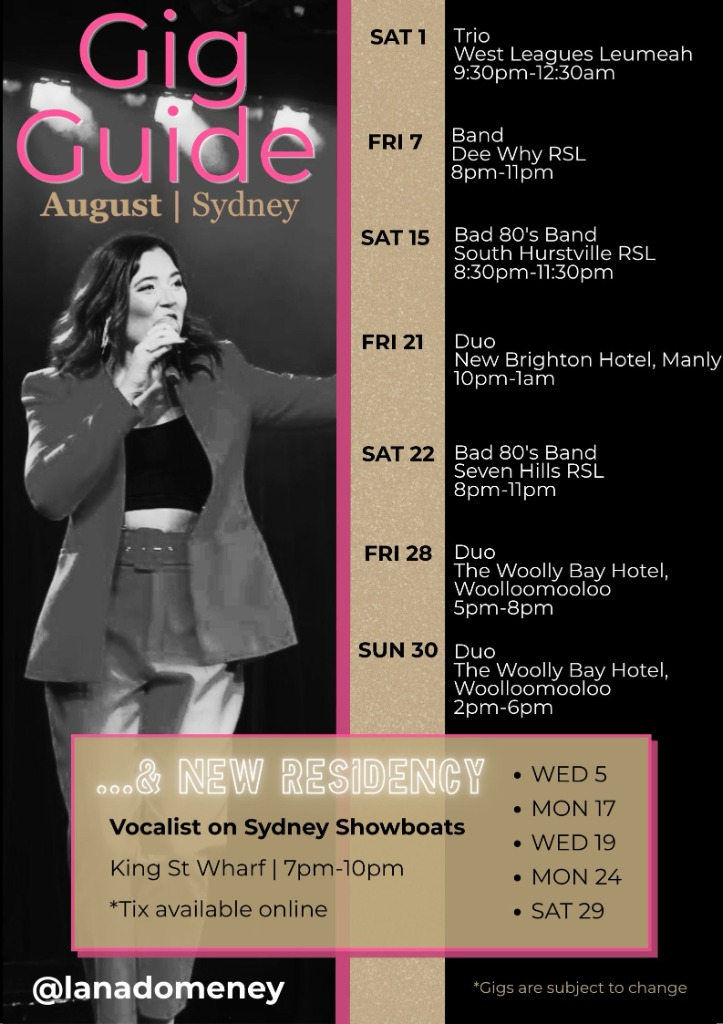
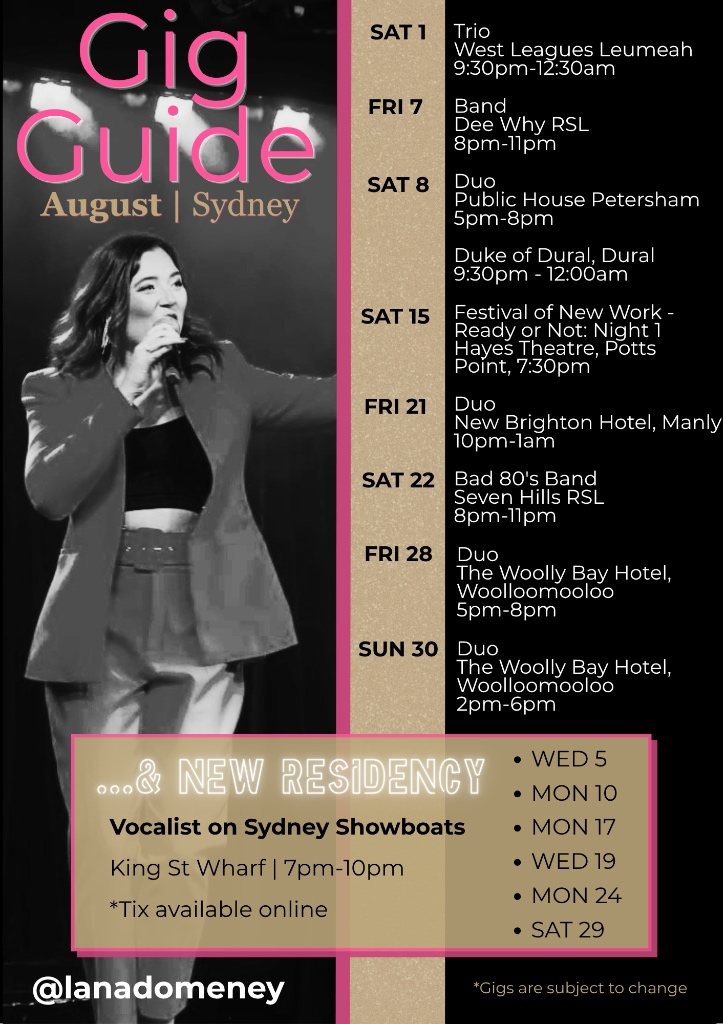
update to guide gig plus seo
update to guide gig plus seo

diff --git a/index.html b/index.html
@@ -3,15 +3,48 @@
 <head>
   <meta charset="UTF-8" />
   <meta name="viewport" content="width=device-width, initial-scale=1.0" />
-  <title>Lana Domeney | International Vocalist &amp; Entertainer</title>
-  <meta name="description" content="Lana Domeney is a Sydney-based international vocalist and entertainer performing Pop, Jazz and Vintage Pop for shows, cruises, corporate and private events." />
+  <title>Lana Domeney | Premier Sydney Singer, Vocalist &amp; Live Party Bands</title>
+  <meta name="description" content="Lana Domeney is one of the premier singers in Sydney and a versatile Sydney vocalist available for wedding bands, party bands, corporate events, and cruise residencies." />
+  <meta name="keywords" content="Lana Domeney, Sydney singers, singers in Sydney, Sydney vocalist, best vocalists in Sydney, wedding bands Sydney, party bands Sydney, live music Sydney, corporate entertainment Sydney" />
   <meta name="author" content="Lana Domeney" />
 
+  <!-- ===== OPEN GRAPH & SOCIAL METADATA ===== -->
   <meta property="og:type" content="website" />
-  <meta property="og:title" content="Lana Domeney | International Vocalist &amp; Entertainer" />
-  <meta property="og:description" content="Pop, Jazz &amp; Vintage Pop. Available for shows, cruises, corporate and private events." />
+  <meta property="og:title" content="Lana Domeney | Premier Sydney Singer, Vocalist &amp; Live Party Bands" />
+  <meta property="og:description" content="Looking for top singers in Sydney? Lana Domeney delivers captivating Pop, Jazz &amp; Vintage Live Entertainment for wedding bands, party bands, corporate galas, and cruise residencies." />
   <meta property="og:image" content="assets/img/promo-4.jpg" />
+  <meta property="og:url" content="https://lanadomeney.com/" />
+  <meta name="twitter:card" content="summary_large_image" />
+  <meta name="twitter:title" content="Lana Domeney | Sydney Singers, Vocalist &amp; Party Bands" />
+  <meta name="twitter:description" content="Premier Sydney vocalist &amp; entertainer available for shows, wedding bands, party bands, and corporate events." />
   <meta name="theme-color" content="#000000" />
+
+  <!-- ===== STRUCTURED DATA (JSON-LD SCHEMA) ===== -->
+  <script type="application/ld+json">
+  {
+    "@context": "https://schema.org",
+    "@type": "Person",
+    "name": "Lana Domeney",
+    "url": "https://lanadomeney.com/",
+    "image": "https://lanadomeney.com/assets/img/promo-4.jpg",
+    "jobTitle": "Vocalist, Singer & Live Entertainer",
+    "description": "Sydney-based international vocalist performing Pop, Jazz, Vintage classics, and headline live shows for corporate events, wedding bands, party bands, and cruises.",
+    "address": {
+      "@type": "PostalAddress",
+      "addressLocality": "Sydney",
+      "addressRegion": "NSW",
+      "addressCountry": "Australia"
+    },
+    "sameAs": [
+      "https://www.instagram.com/lanadomeney/",
+      "https://www.tiktok.com/@lanadomeney",
+      "https://www.youtube.com/@lanadomeney",
+      "https://www.facebook.com/lanadomeney/",
+      "https://linktr.ee/lanadomeney"
+    ],
+    "knowsAbout": ["Live Singing", "Pop & Jazz Vocalist", "Sydney Singers", "Wedding Bands Sydney", "Party Bands Sydney", "Corporate Live Entertainment"]
+  }
+  </script>
 
   <link rel="icon" type="image/png" href="assets/favicon.png" />
 
@@ -26,11 +59,11 @@
   <!-- ===== NAV ===== -->
   <header class="nav" id="nav">
     <a href="#home" class="nav__brand" aria-label="Lana Domeney, home">
-      <img src="assets/logo/lana-white.png" alt="Lana Domeney" />
+      <img src="assets/logo/lana-white.png" alt="Lana Domeney - International Vocalist" />
     </a>
     <nav class="nav__links" aria-label="Primary">
       <a href="#about">About</a>
-      <a href="#shows">Shows</a>
+      <a href="#shows">Shows &amp; Bands</a>
       <a href="#showreel">Showreel</a>
       <a href="gallery.html">Gallery</a>
       <a href="headshots.html">Headshots &amp; CV</a>
@@ -44,13 +77,13 @@
 
   <!-- ===== HERO ===== -->
   <section class="hero" id="home">
-    <div class="hero__media" role="img" aria-label="Lana Domeney performing"></div>
+    <div class="hero__media" role="img" aria-label="Lana Domeney performing live"></div>
     <div class="hero__scrim"></div>
     <div class="hero__inner">
       <p class="eyebrow eyebrow--light hero__eyebrow">Sydney, Australia</p>
-      <img class="hero__logo logo-tilt" src="assets/logo/lana-white.png" alt="Lana Domeney" />
-      <h1 class="hero__tag">International Vocalist &amp; Entertainer</h1>
-      <p class="hero__sub">The sounds of Pop, Jazz &amp; Vintage Glamour</p>
+      <img class="hero__logo logo-tilt" src="assets/logo/lana-white.png" alt="Lana Domeney - Vocalist &amp; Entertainer" />
+      <h1 class="hero__tag">International Vocalist &amp; Live Entertainer</h1>
+      <p class="hero__sub">Pop, Jazz, Vintage Glamour &amp; Premier Party Bands in Sydney</p>
       <a href="#contact" class="btn btn--pink">Enquire for Bookings</a>
     </div>
     <a href="#about" class="hero__scroll" aria-label="Scroll to about">&#8595;</a>
@@ -60,18 +93,18 @@
   <section class="about section" id="about">
     <div class="about__grid">
       <div class="about__photo">
-        <img src="assets/img/promo-3.jpg" alt="Lana Domeney portrait" loading="lazy" />
+        <img src="assets/img/promo-3.jpg" alt="Lana Domeney - Premier singer in Sydney" loading="lazy" />
       </div>
       <div class="about__text">
         <p class="eyebrow">About</p>
         <h2 class="section__title">A voice for the <em>moment</em></h2>
         <blockquote class="pullquote">&ldquo;Brilliant singer and performer.&rdquo;<cite>M.C.</cite></blockquote>
-        <p>Lana Domeney is an international vocalist and entertainer, born in Essex, UK and raised in Sydney, Australia, who discovered her passion for singing at the age of eleven.</p>
-        <p>Trained in musical theatre at the McDonald College of Performing Arts and ED5International, Lana has honed her craft on both land and sea, headlining in Greece and performing across Carnival UK &amp; US cruise ships.</p>
-        <p>A versatile vocalist, Lana blends Pop, Jazz and timeless classics into a captivating live show. With natural charisma and magnetic stage presence, she continues to delight audiences around the world.</p>
+        <p>Lana Domeney is an international vocalist and entertainer, born in Essex, UK and raised in Sydney, Australia, who discovered her passion for singing at the age of eleven. Today, she is recognized among the premier singers in Sydney for corporate galas, wedding bands, and headline stage shows.</p>
+        <p>Trained in musical theatre at the McDonald College of Performing Arts and ED5International, Lana has honed her craft on both land and sea, headlining in Greece, starring as a resident vocalist on Sydney Showboats, and performing across Carnival UK &amp; US cruise fleets.</p>
+        <p>A versatile vocalist, Lana blends Pop, Jazz, and timeless classics into a captivating live experience. Whether performing an intimate solo set or fronting full party bands in Sydney, her natural charisma and magnetic stage presence delight audiences worldwide.</p>
         <div class="about__facts">
           <div><span>5+ Years</span>performing professionally</div>
-          <div><span>Land &amp; Sea</span>Stage &amp; cruise</div>
+          <div><span>Land &amp; Sea</span>Stage, cruise &amp; party bands</div>
           <div><span>Soprano</span>G3&ndash;C6, belt to F5</div>
         </div>
       </div>
@@ -82,25 +115,25 @@
   <section class="shows section" id="shows">
     <div class="section__head center">
       <p class="eyebrow">Bookings</p>
-      <h2 class="section__title">Shows &amp; Packages</h2>
-      <p class="section__lead">Every performance is tailored to your venue and audience, available as a solo show with backing tracks, or performed live with your band or orchestra.</p>
+      <h2 class="section__title">Shows, Wedding &amp; Party Bands in Sydney</h2>
+      <p class="section__lead">Every performance is tailored to your venue and event, available as a solo vocalist with backing tracks, or fronting premier wedding bands, party bands, and full orchestras.</p>
     </div>
     <div class="cards">
       <article class="card">
-        <h3>Solo Shows</h3>
-        <p>A one-woman journey through Pop, Jazz and Vintage classics. Intimate, polished and endlessly re-programmable for your room.</p>
+        <h3>Solo Vocalist</h3>
+        <p>A one-woman journey through Pop, Jazz, and Vintage classics. Intimate, polished, and endlessly re-programmable for any venue or private gathering.</p>
       </article>
       <article class="card">
-        <h3>Corporate &amp; Private Events</h3>
-        <p>Galas, weddings, launches and celebrations. Sophisticated live entertainment that sets the tone for the evening.</p>
+        <h3>Wedding &amp; Party Bands Sydney</h3>
+        <p>Galas, weddings, product launches, and private celebrations. High-energy live party bands that bring sophisticated, show-stopping entertainment to your dance floor.</p>
       </article>
       <article class="card">
         <h3>Cruise &amp; Residencies</h3>
-        <p>Headline sets and extended residencies for cruise lines and venues, refined across Carnival UK &amp; US fleets.</p>
+        <p>Headline sets and extended residencies for cruise lines and prestige venues, refined across Carnival UK &amp; US fleets and Sydney Showboats.</p>
       </article>
       <article class="card">
         <h3>Live with Band or Orchestra</h3>
-        <p>Bring the full sound. Lana performs seamlessly with your house band or orchestra for a truly show-stopping night.</p>
+        <p>Bring the full sound. Lana performs seamlessly fronting your house band, big band, or orchestra for an unforgettable live music event.</p>
       </article>
     </div>
     <div class="center">
@@ -112,13 +145,13 @@
   <section class="reel section" id="showreel">
     <div class="section__head center">
       <p class="eyebrow eyebrow--light">Watch</p>
-      <h2 class="section__title">Showreel</h2>
-      <p class="section__lead">End of Year Showreel 2025</p>
+      <h2 class="section__title">Live Performance Showreel</h2>
+      <p class="section__lead">End of Year Showreel 2025 &ndash; Lana Domeney</p>
     </div>
     <div class="reel__frame">
       <iframe
         src="https://www.youtube.com/embed/VcOsoinFNQ8?rel=0"
-        title="Lana Domeney, Showreel"
+        title="Lana Domeney - Live Performance Showreel"
         loading="lazy"
         referrerpolicy="strict-origin-when-cross-origin"
         allow="accelerometer; autoplay; clipboard-write; encrypted-media; gyroscope; picture-in-picture; web-share"

diff --git a/gallery.html b/gallery.html
@@ -3,8 +3,14 @@
 <head>
   <meta charset="UTF-8" />
   <meta name="viewport" content="width=device-width, initial-scale=1.0" />
-  <title>Gallery | Lana Domeney</title>
-  <meta name="description" content="Photo gallery of vocalist and entertainer Lana Domeney, on stage and in frame." />
+  <title>Photo Gallery | Lana Domeney - Sydney Vocalist &amp; Live Band Singer</title>
+  <meta name="description" content="Explore the photo gallery of Lana Domeney, one of the top singers in Sydney performing live with wedding bands, party bands, and stage shows." />
+  <meta name="keywords" content="Lana Domeney gallery, Sydney singers photos, Sydney vocalist pictures, wedding bands Sydney, party bands Sydney" />
+  <meta property="og:type" content="article" />
+  <meta property="og:title" content="Photo Gallery | Lana Domeney - Sydney Vocalist &amp; Live Band Singer" />
+  <meta property="og:description" content="On stage and in frame: photo gallery of premier Sydney vocalist Lana Domeney fronting party bands, wedding bands, and live stage shows." />
+  <meta property="og:image" content="assets/img/promo-4.jpg" />
+  <meta property="og:url" content="https://lanadomeney.com/gallery.html" />
   <link rel="icon" type="image/png" href="assets/favicon.png" />
   <link rel="preconnect" href="https://fonts.googleapis.com" />
   <link rel="preconnect" href="https://fonts.gstatic.com" crossorigin />
@@ -16,7 +22,7 @@
   <!-- ===== NAV ===== -->
   <header class="nav nav--solid" id="nav">
     <a href="index.html" class="nav__brand" aria-label="Lana Domeney, home">
-      <img src="assets/logo/lana-white.png" alt="Lana Domeney" />
+      <img src="assets/logo/lana-white.png" alt="Lana Domeney - Sydney Singer" />
     </a>
     <nav class="nav__links" aria-label="Primary">
       <a href="index.html#about">About</a>
@@ -41,28 +47,28 @@
   <section class="gallery section section--top0" id="gallery">
     <div class="grid8" id="masonry">
       <!-- Row 1 -->
-      <button class="masonry__item" data-full="assets/img/stage-3.png"><img src="assets/img/stage-3.png" alt="Lana Domeney performing live on stage with band" loading="lazy" /></button>
-      <button class="masonry__item" data-full="assets/img/outdoor-6.jpg"><img src="assets/img/outdoor-6.jpg" alt="Lana Domeney editorial portrait" loading="lazy" /></button>
-      <button class="masonry__item" data-full="assets/img/stage-1.jpg"><img src="assets/img/stage-1.jpg" alt="Lana Domeney performing live in silver sequin dress" loading="lazy" /></button>
-      <button class="masonry__item" data-full="assets/img/outdoor-1.jpg"><img src="assets/img/outdoor-1.jpg" alt="Lana Domeney in red gown, archway" loading="lazy" /></button>
+      <button class="masonry__item" data-full="assets/img/stage-3.png"><img src="assets/img/stage-3.png" alt="Lana Domeney - Sydney singer performing live on stage with party band" loading="lazy" /></button>
+      <button class="masonry__item" data-full="assets/img/outdoor-6.jpg"><img src="assets/img/outdoor-6.jpg" alt="Lana Domeney - Sydney vocalist editorial portrait" loading="lazy" /></button>
+      <button class="masonry__item" data-full="assets/img/stage-1.jpg"><img src="assets/img/stage-1.jpg" alt="Lana Domeney - Top singers in Sydney performing live in silver dress" loading="lazy" /></button>
+      <button class="masonry__item" data-full="assets/img/outdoor-1.jpg"><img src="assets/img/outdoor-1.jpg" alt="Lana Domeney - Sydney singer in red gown" loading="lazy" /></button>
 
       <!-- Row 2 -->
-      <button class="masonry__item" data-full="assets/img/stage-6.jpg"><img src="assets/img/stage-6.jpg" alt="Lana Domeney performing live stage back-bend" loading="lazy" /></button>
-      <button class="masonry__item" data-full="assets/img/outdoor-5.jpg"><img src="assets/img/outdoor-5.jpg" alt="Lana Domeney in black sequins" loading="lazy" /></button>
-      <button class="masonry__item" data-full="assets/img/stage-2.jpg"><img src="assets/img/stage-2.jpg" alt="Lana Domeney performing live in red suit" loading="lazy" /></button>
-      <button class="masonry__item" data-full="assets/img/headshot.jpg"><img src="assets/img/headshot.jpg" alt="Lana Domeney glamour portrait" loading="lazy" /></button>
+      <button class="masonry__item" data-full="assets/img/stage-6.jpg"><img src="assets/img/stage-6.jpg" alt="Lana Domeney - Sydney vocalist live stage back-bend performance" loading="lazy" /></button>
+      <button class="masonry__item" data-full="assets/img/outdoor-5.jpg"><img src="assets/img/outdoor-5.jpg" alt="Lana Domeney - Sydney event singer portrait" loading="lazy" /></button>
+      <button class="masonry__item" data-full="assets/img/stage-2.jpg"><img src="assets/img/stage-2.jpg" alt="Lana Domeney - Party bands Sydney live performance in red suit" loading="lazy" /></button>
+      <button class="masonry__item" data-full="assets/img/headshot.jpg"><img src="assets/img/headshot.jpg" alt="Lana Domeney - Best vocalists in Sydney glamour headshot" loading="lazy" /></button>
 
       <!-- Row 3 -->
-      <button class="masonry__item" data-full="assets/img/stage-8.jpg"><img src="assets/img/stage-8.jpg" alt="Lana Domeney in red sequin gown at the piano" loading="lazy" /></button>
-      <button class="masonry__item" data-full="assets/img/outdoor-3.jpg"><img src="assets/img/outdoor-3.jpg" alt="Lana Domeney on stone steps" loading="lazy" /></button>
-      <button class="masonry__item" data-full="assets/img/stage-5.jpg"><img src="assets/img/stage-5.jpg" alt="Lana Domeney performing live with band in leopard print" loading="lazy" /></button>
-      <button class="masonry__item" data-full="assets/img/promo-3.jpg"><img src="assets/img/promo-3.jpg" alt="Lana Domeney, black and white portrait" loading="lazy" /></button>
+      <button class="masonry__item" data-full="assets/img/stage-8.jpg"><img src="assets/img/stage-8.jpg" alt="Lana Domeney - Sydney wedding &amp; party band vocalist at the piano" loading="lazy" /></button>
+      <button class="masonry__item" data-full="assets/img/outdoor-3.jpg"><img src="assets/img/outdoor-3.jpg" alt="Lana Domeney - Sydney vocal entertainer outdoor portrait" loading="lazy" /></button>
+      <button class="masonry__item" data-full="assets/img/stage-5.jpg"><img src="assets/img/stage-5.jpg" alt="Lana Domeney - Sydney party band live performance in leopard print" loading="lazy" /></button>
+      <button class="masonry__item" data-full="assets/img/promo-3.jpg"><img src="assets/img/promo-3.jpg" alt="Lana Domeney - Sydney singer promo portrait" loading="lazy" /></button>
 
       <!-- Row 4 -->
-      <button class="masonry__item" data-full="assets/img/stage-7.jpg"><img src="assets/img/stage-7.jpg" alt="Lana Domeney singing under purple stage spotlights" loading="lazy" /></button>
-      <button class="masonry__item" data-full="assets/img/outdoor-4.jpg"><img src="assets/img/outdoor-4.jpg" alt="Lana Domeney on stairs" loading="lazy" /></button>
-      <button class="masonry__item" data-full="assets/img/stage-4.jpg"><img src="assets/img/stage-4.jpg" alt="Lana Domeney at the Stage Door" loading="lazy" /></button>
-      <button class="masonry__item" data-full="assets/img/promo-4.jpg"><img src="assets/img/promo-4.jpg" alt="Lana Domeney with microphone" loading="lazy" /></button>
+      <button class="masonry__item" data-full="assets/img/stage-7.jpg"><img src="assets/img/stage-7.jpg" alt="Lana Domeney - Sydney vocalist singing under purple spotlights" loading="lazy" /></button>
+      <button class="masonry__item" data-full="assets/img/outdoor-4.jpg"><img src="assets/img/outdoor-4.jpg" alt="Lana Domeney - Wedding bands Sydney vocalist portrait" loading="lazy" /></button>
+      <button class="masonry__item" data-full="assets/img/stage-4.jpg"><img src="assets/img/stage-4.jpg" alt="Lana Domeney - Sydney Showboats resident vocalist at Stage Door" loading="lazy" /></button>
+      <button class="masonry__item" data-full="assets/img/promo-4.jpg"><img src="assets/img/promo-4.jpg" alt="Lana Domeney - Premier singer in Sydney with microphone" loading="lazy" /></button>
     </div>
   </section>
 

diff --git a/headshots.html b/headshots.html
@@ -3,8 +3,14 @@
 <head>
   <meta charset="UTF-8" />
   <meta name="viewport" content="width=device-width, initial-scale=1.0" />
-  <title>Headshots &amp; CV | Lana Domeney</title>
-  <meta name="description" content="Professional headshots and performance CV for vocalist and actor Lana Domeney, represented by Jeep Management, Sydney." />
+  <title>Headshots &amp; CV | Lana Domeney - Sydney Vocalist &amp; Entertainer</title>
+  <meta name="description" content="Professional headshots and performance CV for Sydney singer and musical theatre vocalist Lana Domeney, represented by Jeep Management, Sydney." />
+  <meta name="keywords" content="Lana Domeney headshots, Lana Domeney CV, Sydney singers, Sydney vocalist, Jeep Management Sydney, Sydney theatre vocalist" />
+  <meta property="og:type" content="article" />
+  <meta property="og:title" content="Headshots &amp; CV | Lana Domeney - Sydney Vocalist &amp; Entertainer" />
+  <meta property="og:description" content="Professional headshots, performance credits, and CV for premier Sydney vocalist Lana Domeney, represented by Jeep Management, Sydney." />
+  <meta property="og:image" content="assets/headshots/hs-1.jpg" />
+  <meta property="og:url" content="https://lanadomeney.com/headshots.html" />
   <link rel="icon" type="image/png" href="assets/favicon.png" />
   <link rel="preconnect" href="https://fonts.googleapis.com" />
   <link rel="preconnect" href="https://fonts.gstatic.com" crossorigin />
@@ -16,7 +22,7 @@
   <!-- ===== NAV ===== -->
   <header class="nav nav--solid" id="nav">
     <a href="index.html" class="nav__brand" aria-label="Lana Domeney, home">
-      <img src="assets/logo/lana-white.png" alt="Lana Domeney" />
+      <img src="assets/logo/lana-white.png" alt="Lana Domeney - Sydney Vocalist" />
     </a>
     <nav class="nav__links" aria-label="Primary">
       <a href="index.html#about">About</a>
@@ -43,12 +49,12 @@
     <div class="carousel" id="carousel">
       <div class="carousel__viewport">
         <div class="carousel__track" id="carTrack">
-          <figure class="carousel__slide"><img src="assets/headshots/hs-1.jpg" alt="Lana Domeney headshot 1" /></figure>
-          <figure class="carousel__slide"><img src="assets/headshots/hs-2.jpg" alt="Lana Domeney headshot 2" /></figure>
-          <figure class="carousel__slide"><img src="assets/headshots/hs-3.jpg" alt="Lana Domeney headshot 3" /></figure>
-          <figure class="carousel__slide"><img src="assets/headshots/hs-4.jpg" alt="Lana Domeney headshot 4" /></figure>
-          <figure class="carousel__slide"><img src="assets/headshots/hs-5.jpg" alt="Lana Domeney headshot 5" /></figure>
-          <figure class="carousel__slide"><img src="assets/headshots/hs-6.jpg" alt="Lana Domeney headshot 6" /></figure>
+          <figure class="carousel__slide"><img src="assets/headshots/hs-1.jpg" alt="Lana Domeney - Sydney vocalist professional headshot 1" /></figure>
+          <figure class="carousel__slide"><img src="assets/headshots/hs-2.jpg" alt="Lana Domeney - Sydney singer performance headshot 2" /></figure>
+          <figure class="carousel__slide"><img src="assets/headshots/hs-3.jpg" alt="Lana Domeney - Top vocalists in Sydney headshot 3" /></figure>
+          <figure class="carousel__slide"><img src="assets/headshots/hs-4.jpg" alt="Lana Domeney - Sydney party band lead singer headshot 4" /></figure>
+          <figure class="carousel__slide"><img src="assets/headshots/hs-5.jpg" alt="Lana Domeney - Sydney wedding band vocalist headshot 5" /></figure>
+          <figure class="carousel__slide"><img src="assets/headshots/hs-6.jpg" alt="Lana Domeney - International Sydney vocalist headshot 6" /></figure>
         </div>
       </div>
       <button class="carousel__btn carousel__prev" id="carPrev" aria-label="Previous headshot">&#8249;</button>

diff --git a/gig-guide.html b/gig-guide.html
@@ -3,8 +3,14 @@
 <head>
   <meta charset="UTF-8" />
   <meta name="viewport" content="width=device-width, initial-scale=1.0" />
-  <title>Gig Guide | Lana Domeney</title>
-  <meta name="description" content="August Gig Guide, live performance dates, and Sydney Showboats residency for vocalist Lana Domeney." />
+  <title>August Dates &amp; Gig Guide | Lana Domeney - Live Sydney Singer &amp; Residencies</title>
+  <meta name="description" content="August Gig Guide and live performance dates for Sydney vocalist Lana Domeney. Catch live shows across Sydney venues, RSL clubs, and Sydney Showboats." />
+  <meta name="keywords" content="Lana Domeney gig guide, Sydney singers live dates, singers in Sydney live, wedding bands Sydney, party bands Sydney, Sydney Showboats vocalist" />
+  <meta property="og:type" content="article" />
+  <meta property="og:title" content="August Dates &amp; Gig Guide | Lana Domeney - Live Sydney Singer" />
+  <meta property="og:description" content="Live music dates &amp; residencies: see Lana Domeney performing live in Sydney across RSL venues, duos, party bands, and Sydney Showboats." />
+  <meta property="og:image" content="assets/img/gig-guide-august.jpg" />
+  <meta property="og:url" content="https://lanadomeney.com/gig-guide.html" />
   <link rel="icon" type="image/png" href="assets/favicon.png" />
   <link rel="preconnect" href="https://fonts.googleapis.com" />
   <link rel="preconnect" href="https://fonts.gstatic.com" crossorigin />
@@ -16,7 +22,7 @@
   <!-- ===== NAV ===== -->
   <header class="nav nav--solid" id="nav">
     <a href="index.html" class="nav__brand" aria-label="Lana Domeney, home">
-      <img src="assets/logo/lana-white.png" alt="Lana Domeney" />
+      <img src="assets/logo/lana-white.png" alt="Lana Domeney - Sydney Vocalist" />
     </a>
     <nav class="nav__links" aria-label="Primary">
       <a href="index.html#about">About</a>
@@ -45,7 +51,7 @@
 
     <div class="gig-poster__wrap">
       <button class="masonry__item" data-full="assets/img/gig-guide-august.jpg" style="aspect-ratio:auto; border-radius:0;">
-        <img src="assets/img/gig-guide-august.jpg" alt="Lana Domeney August Gig Guide Poster" />
+        <img src="assets/img/gig-guide-august.jpg" alt="Lana Domeney - August Gig Guide Poster - Sydney Singer Live Performances" />
       </button>
     </div>
 
@@ -54,9 +60,9 @@
     </div>
 
     <div class="grid3" id="masonry">
-      <button class="masonry__item" data-full="assets/img/showboat-3.jpg"><img src="assets/img/showboat-3.jpg" alt="Lana Domeney backstage portrait in Showboat costume" loading="lazy" /></button>
-      <button class="masonry__item" data-full="assets/img/showboat-2.jpg"><img src="assets/img/showboat-2.jpg" alt="Lana Domeney and Showboat Follies dancers on stage" loading="lazy" /></button>
-      <button class="masonry__item" data-full="assets/img/showboat-1.jpg"><img src="assets/img/showboat-1.jpg" alt="Lana Domeney performing live duet on Sydney Showboats" loading="lazy" /></button>
+      <button class="masonry__item" data-full="assets/img/showboat-3.jpg"><img src="assets/img/showboat-3.jpg" alt="Lana Domeney - Sydney Showboats resident vocalist portrait" loading="lazy" /></button>
+      <button class="masonry__item" data-full="assets/img/showboat-2.jpg"><img src="assets/img/showboat-2.jpg" alt="Lana Domeney and Showboat Follies dancers live on stage in Sydney" loading="lazy" /></button>
+      <button class="masonry__item" data-full="assets/img/showboat-1.jpg"><img src="assets/img/showboat-1.jpg" alt="Lana Domeney - Sydney vocalist performing live duet on Sydney Showboats" loading="lazy" /></button>
     </div>
 
     <div class="residency__blurb">
